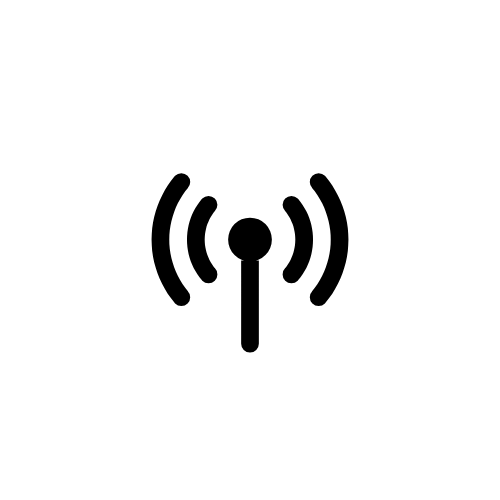
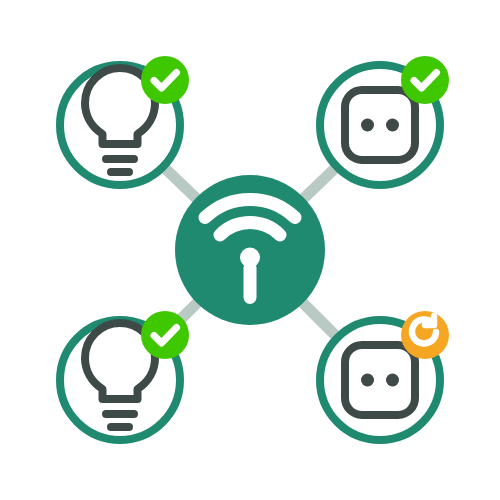
Klaar voor de App Store: driverafbeelding, kortere README, GitHub-README, versie 0.2.0

Changed region(s): [[0.09, 0.09, 0.9, 0.9]]

diff --git a/README.md b/README.md
@@ -1,0 +1,55 @@
+# Zigbee Monitor — Homey App
+
+Keeps an eye on your **Zigbee routers** — the mains-powered lamps, plugs and relays that pass on the signals of your other Zigbee devices — and lets a flow **repair** a router that stopped responding, before you notice.
+
+---
+
+## How it works
+
+- Every few minutes (default 10, adjustable) Zigbee Monitor gives each router its **current state again** (on/off or dim). Nothing changes, but the command really travels over Zigbee: a router that stopped responding answers with an error or not at all
+- One failure is re-tested after a minute; **several failures in a row** count as *does not respond* (notification + flow triggers, once)
+- Works with routers of **any app**: Homey marks mains-powered Zigbee devices as routers, e.g. Philips Hue without bridge, IKEA Home smart, Aqara & Xiaomi, Tuya, SONOFF, Innr
+- In the app settings you choose which routers to monitor, the interval and the notifications, and see a log of all events
+- One **overview device** with a red dot when a router does not respond
+
+## Repairing with a flow
+
+Apps cannot restart other apps or Homey themselves, but a flow can. Example Advanced Flow, one lane per app:
+
+```
+WHEN  A router of [Philips Hue] does not respond
+THEN  Restart app [Philips Hue]  →  wait 30 s
+AND   A router of [Philips Hue] still does not respond
+AND   Zigbee Monitor is running longer than 60 minutes      (prevents a restart loop)
+THEN  Notification + Restart Homey
+ELSE  Notification "repaired by restarting the app"
+```
+
+## Flow cards
+
+**Triggers** — *[router] does not respond* · *A router of [app] does not respond* · *[router] responds again*
+**Conditions** — *[router] responds* (tests right away) · *A router of [app] still does not respond* · *Zigbee Monitor is running longer than [minutes] minutes*
+**Actions** — *Test [router] now* · *Test the routers of [app] now* · *Test all routers now*
+
+## Installation
+
+Homey App Store (test): search for *Zigbee Monitor*. Works on Homey Pro (2023 or later), Homey Pro mini and Homey Self-Hosted Server.
+
+```bash
+npm install -g homey && npm install
+homey app run       # test on your Homey
+npm test            # unit tests
+```
+
+## Notes
+
+- The app uses the Homey Web API (`homey:manager:api`) to find the routers and send them their current state. No cloud, everything stays on your Homey
+- Most lamps and plugs ignore a command that does not change anything. If a device reacts to it anyway, switch off monitoring for that router in the settings
+
+## Credits
+
+Zigbee logo: [Simple Icons](https://simpleicons.org) (CC0); Zigbee is a trademark of the Connectivity Standards Alliance.
+
+## License
+
+MIT
